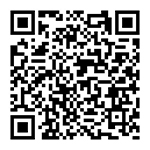
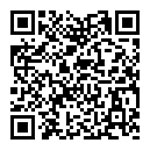
二维码过期

diff --git a/other/公众账号推荐.md b/other/公众账号推荐.md
@@ -182,9 +182,9 @@
 
 ### 安卓开发精选
 
-微信号: `jsdigs`，伯乐在线旗下账号专注分享安卓开发相关资讯、经典技术文章、App 设计与推广、热门课程、高薪职位和经典书籍等s
+微信号: `androidpd`，伯乐在线旗下账号专注分享安卓开发相关资讯、经典技术文章、App 设计与推广、热门课程、高薪职位和经典书籍等s
 
-![](img/jsdigs.jpg)
+![](img/androidpd.jpg)
 
 ## 数据库
 
